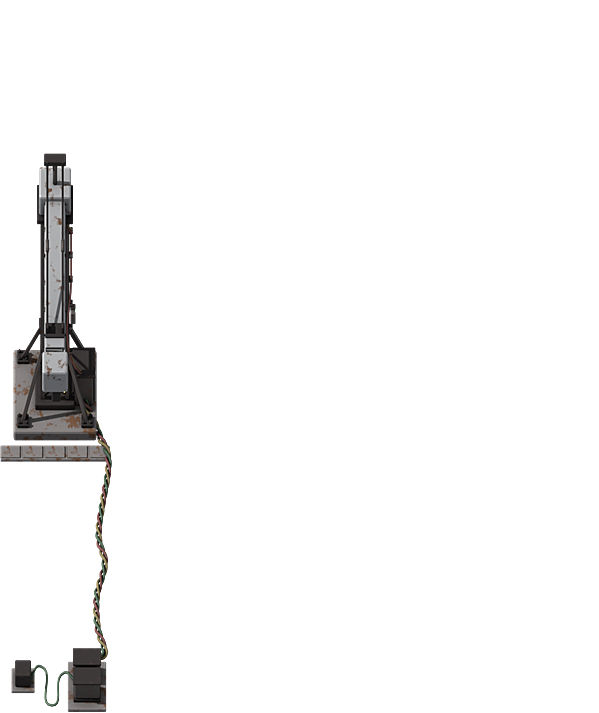
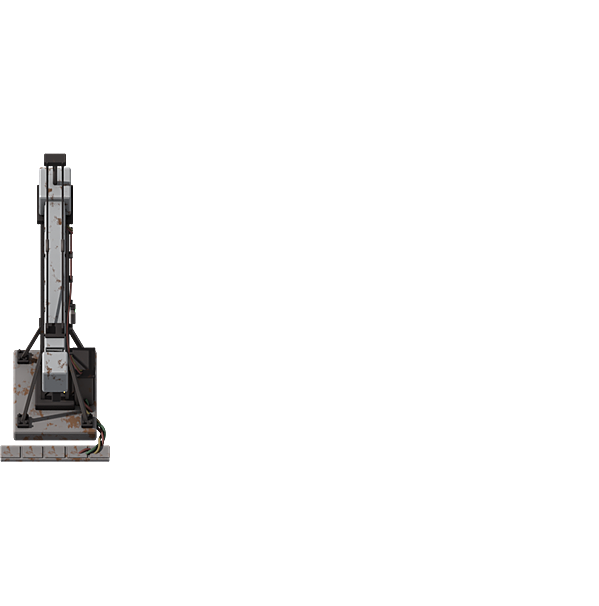
feat(Aussehen): nur noch Vanilla oder UTL – Variante mit Verteilern hinter dem Gleis entfernt
Marcel: Das Kabel unter dem Gleis zu den Verteilern passt nicht. „UTL“ ist jetzt die bisherige Kompaktversion
(Vanilla-Teile am Gleis ohne Mastfuß); Bilder, Lua und Modell-Code der Verteiler-Variante entfernt.

Changed region(s): [[0.0, 0.2079, 0.2104, 1.0]]

diff --git a/tools/grafik/utl_stop_model.py b/tools/grafik/utl_stop_model.py
@@ -13,10 +13,9 @@ from materials import material as _mat
 COLLECTION = "UTL-Haltestelle"
 
 
-def build(seed=0, name=COLLECTION, distributor=True, arm_yaw=0.0):
+def build(seed=0, name=COLLECTION, arm_yaw=0.0):
     """Baut das Modell in die Sammlung `name`. seed: Zufallswert für die Kabelführung – je Richtung ein
-    anderer, damit die Kabel nicht überall gleich liegen. distributor=False: ohne Verteiler hinter dem Gleis,
-    das Kabelbündel endet im Kabelkanal (im Spiel zeichnet dann die Vanilla-Haltestelle ihre Teile am Gleis).
+    anderer, damit die Kabel nicht überall gleich liegen.
     arm_yaw: Ausleger um so viele Grad um den Mast drehen (gegen den Uhrzeigersinn) – wie Vanilla in Ost/West, damit
     man den Ausleger nicht nur von vorn sieht."""
     rng = random.Random(seed)
@@ -270,43 +269,16 @@ def build(seed=0, name=COLLECTION, distributor=True, arm_yaw=0.0):
     box("Kastendach", (0.46, 0.36, 0.04), (MX - 0.05, MY - 0.45, 0.75), DARK)
     box("Kastentür", (0.32, 0.02, 0.44), (MX - 0.05, MY - 0.61, 0.455), DARK, bevel=0.008)
 
-    # ---- Kabel vom Kasten unter dem Gleis hindurch nach Westen (wie Vanilla) ----
-    # Gleismitte liegt 2 Felder westlich der Haltestelle, Schotter bis ≈ −3,2: Verteiler erst dahinter
-    VX = -3.95
-    # verlegt wie echt: aus dem Kasten im Bogen nach unten, dann als geflochtenes Bündel in weiten Schwüngen
-    # über den Boden; die Schwünge kommen aus seed, je Richtung also anders
-    swing = [rng.uniform(-0.22, 0.22) for _ in range(6)]
-    if not distributor:
-        # kurz: im Bogen vom Kasten in die Kabelrinne, dort unter einem Deckel weiter
-        braid("Kabel", [(MX - 0.25, MY - 0.45, 0.3), (MX - 0.38, MY - 0.58, 0.12), (MX - 0.55, MY - 0.74, 0.055),
-                        (MX - 0.78 + swing[0] * 0.3, MY - 0.66, 0.05), (MX - 0.85, MY - 0.48, 0.035),
-                        (MX - 0.85, MY - 0.3, 0.0)], 0.02, WIRE)
-    else:
-        braid("Kabel", [(MX - 0.25, MY - 0.45, 0.3), (MX - 0.38, MY - 0.58, 0.12), (MX - 0.62, MY - 0.7, 0.055),
-                        (MX - 1.05, MY - 0.72 + swing[0], 0.055), (-1.55, MY - 0.7 + swing[1], 0.055),
-                        (-2.05, MY - 0.72 + swing[2], 0.055), (-2.55, MY - 0.7 + swing[3], 0.055),
-                        (-3.05, MY - 0.72 + swing[4], 0.055), (-3.45, MY - 0.66 + swing[5] * 0.6, 0.055),
-                        (VX + 0.42, MY - 0.55, 0.06), (VX + 0.2, MY - 0.42, 0.08)], 0.02, WIRE)
+    # ---- Kabelbündel vom Schaltkasten in den Kabelkanal (unter einem Deckel weiter, zu den Vanilla-Teilen am Gleis) ----
+    # verlegt wie echt: aus dem Kasten im Bogen nach unten, geflochten; der Schwung kommt aus seed, je Richtung anders
+    swing = rng.uniform(-0.22, 0.22)
+    braid("Kabel", [(MX - 0.25, MY - 0.45, 0.3), (MX - 0.38, MY - 0.58, 0.12), (MX - 0.55, MY - 0.74, 0.055),
+                    (MX - 0.78 + swing * 0.3, MY - 0.66, 0.05), (MX - 0.85, MY - 0.48, 0.035),
+                    (MX - 0.85, MY - 0.3, 0.0)], 0.02, WIRE)
     # Kabelkanal entlang des Gleises: durchgehende Betonrinne, eingelassen, mit Deckeln obendrauf
     box("Kabelrinne", (0.22, 1.7, 0.05), (MX - 0.85, MY, 0.015), CONCRETE, bevel=0.01)
     for k in range(5):
         box(f"Kanaldeckel{k}", (0.18, 0.31, 0.02), (MX - 0.85, MY + 0.7 - k * 0.35, 0.045), CONCRETE, bevel=0.008)
-    if distributor:
-        # Verteilerkästen auf der anderen Gleisseite: auf einer gemeinsamen Betonplatte, mit Füßen und Dach
-        box("Verteilerplatte", (0.75, 0.6, 0.06), (VX, MY - 0.5, 0.02), CONCRETE, bevel=0.015)
-        for k, x in enumerate((VX + 0.15, VX - 0.15)):
-            box(f"Verteilerfuß{k}", (0.24, 0.42, 0.05), (x, MY - 0.5, 0.075), DARK, bevel=0.006)
-            box(f"Verteiler{k}", (0.22, 0.4, 0.28), (x, MY - 0.5, 0.24), STEEL, bevel=0.025)
-            box(f"Verteilerdach{k}", (0.26, 0.44, 0.03), (x, MY - 0.5, 0.395), DARK, bevel=0.008)
-        box("Kleinverteilerplatte", (0.36, 0.36, 0.05), (VX + 0.1, MY + 0.5, 0.015), CONCRETE, bevel=0.012)
-        box("Kleinverteiler", (0.25, 0.25, 0.22), (VX + 0.1, MY + 0.5, 0.15), DARK, bevel=0.02)
-        for k, x in enumerate((VX + 0.15, VX - 0.15)):
-            cyl(f"Verteilerleuchte{k}", 0.02, 0.012, (x + 0.05, MY - 0.705, 0.32), (LED_G, LED_R)[k],
-                rot=(math.pi / 2, 0, 0), verts=10)
-        bend = rng.uniform(-0.2, 0.2)
-        cable("Kabel Kleinverteiler", [(VX + 0.08, MY - 0.29, 0.07), (VX + 0.02 - bend, MY - 0.14, 0.025),
-                                       (VX - 0.1 + bend, MY + 0.05, 0.025), (VX + 0.12 - bend, MY + 0.22, 0.025),
-                                       (VX + 0.1, MY + 0.38, 0.07)], 0.016, WIRE[1])
 
     # ---- Steuerschrank an der Ostseite des Sockels: steuert Halt und Signal, darum mit Meldeleuchten ----
     sx, sy = MX + 0.47, MY + 0.02

diff --git a/tools/grafik/render_stop.py b/tools/grafik/render_stop.py
@@ -1,5 +1,5 @@
 # UTL-Haltestelle rendern: Modell aus utl_stop_model.py, Aufbau aus rig.py (Blender 5.x, headless):
-#   blender -b --factory-startup --python tools/grafik/render_stop.py -- <render_ordner> [--samples N] [--nur north] [--durchgang top] [--ohne-verteiler] [--ohne-render] [--blend DATEI]
+#   blender -b --factory-startup --python tools/grafik/render_stop.py -- <render_ordner> [--samples N] [--nur north] [--durchgang top] [--ohne-render] [--blend DATEI]
 # Schreibt zusätzlich wires_<richtung>.json (Klemmen auf dem Steuerschrank) für die Anschlusspunkte der Signalkabel.
 # Danach: python3 tools/grafik/sprites.py <render_ordner> <ziel_ordner> utl-train-stop
 import bpy
@@ -22,8 +22,8 @@ passes = (a[a.index("--durchgang") + 1],) if "--durchgang" in a else rig.PASSES
 
 rig.reset()
 rig.lights()
-# Bildausschnitt großzügig: Verteiler ≈ 4,4 Felder neben der Mitte (gedreht auch nach Süden, also unten im Bild),
-# Ausleger gedreht bis ≈ 5,6 Felder hoch im Bild, Schatten bis ≈ 7 Felder nach rechts; sprites.py schneidet zu
+# Bildausschnitt großzügig: Ausleger gedreht bis ≈ 5,6 Felder hoch im Bild, Schatten bis ≈ 7 Felder nach rechts;
+# sprites.py schneidet zu
 rig.camera(13, 12, shift=0.8, shift_x=1.5)
 catcher = rig.shadow_catcher()
 # Je Richtung neu bauen, mit eigenem seed: die Kabel liegen dann in jeder Richtung etwas anders. Ausleger in Ost/West
@@ -37,8 +37,7 @@ for d in directions:
     old = bpy.data.objects.get("Drehpunkt")
     if old:
         bpy.data.objects.remove(old, do_unlink=True)
-    col = utl_stop_model.build(seed=rig.DIRECTIONS.index(d), distributor="--ohne-verteiler" not in a,
-                               arm_yaw=ARM_YAW.get(d, 0.0))
+    col = utl_stop_model.build(seed=rig.DIRECTIONS.index(d), arm_yaw=ARM_YAW.get(d, 0.0))
     for o in col.objects:
         if o.parent is None:
             o.location = (o.location[0] + OFFSET[0], o.location[1] + OFFSET[1], o.location[2])

diff --git a/tools/grafik/live_stop.py b/tools/grafik/live_stop.py
@@ -6,7 +6,6 @@
 #   bpy.app.driver_namespace["utl_rebuild"]()
 # Alle vier Richtungen nebeneinander: bpy.app.driver_namespace["utl_overview"]()
 # Ausgaben daneben: bpy.app.driver_namespace["utl_outputs"]()
-# Variante ohne Verteiler: bpy.app.driver_namespace["utl_distributor"] = False, dann neu bauen
 import bpy
 import importlib
 import os
@@ -21,7 +20,7 @@ import utl_stop_model  # noqa: E402
 def rebuild():
     importlib.reload(rig)
     importlib.reload(utl_stop_model)
-    col = utl_stop_model.build(distributor=_distributor())
+    col = utl_stop_model.build()
     root = bpy.data.objects.get("Drehpunkt")
     for o in col.objects:
         if o.parent is None:
@@ -34,13 +33,9 @@ def rebuild():
     return col
 
 
-def _distributor():
-    return bpy.app.driver_namespace.get("utl_distributor", True)
-
-
 def _direction_copy(i, name):
     """Modell mit seed i in eigene Sammlung bauen, die nur als Kopie (Instanz) angezeigt wird."""
-    col = utl_stop_model.build(seed=i, name=name, distributor=_distributor())
+    col = utl_stop_model.build(seed=i, name=name)
     for parent in (bpy.context.scene.collection,):
         if col.name in parent.children:
             parent.children.unlink(col)
